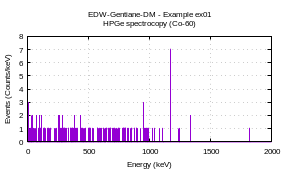
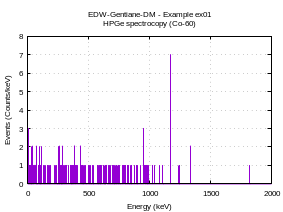
Update main README

diff --git a/examples/ex01/README.rst b/examples/ex01/README.rst
@@ -54,7 +54,7 @@ Tests
 ..
 
 
-.. set terminal pngcairo enhanced color font "Arial,6" size 10cm,6cm
+.. set terminal pngcairo enhanced color font "Arial,6" size 10cm,7.5cm
 .. set output "ex01-small.png"
 .. replot
 .. set output
